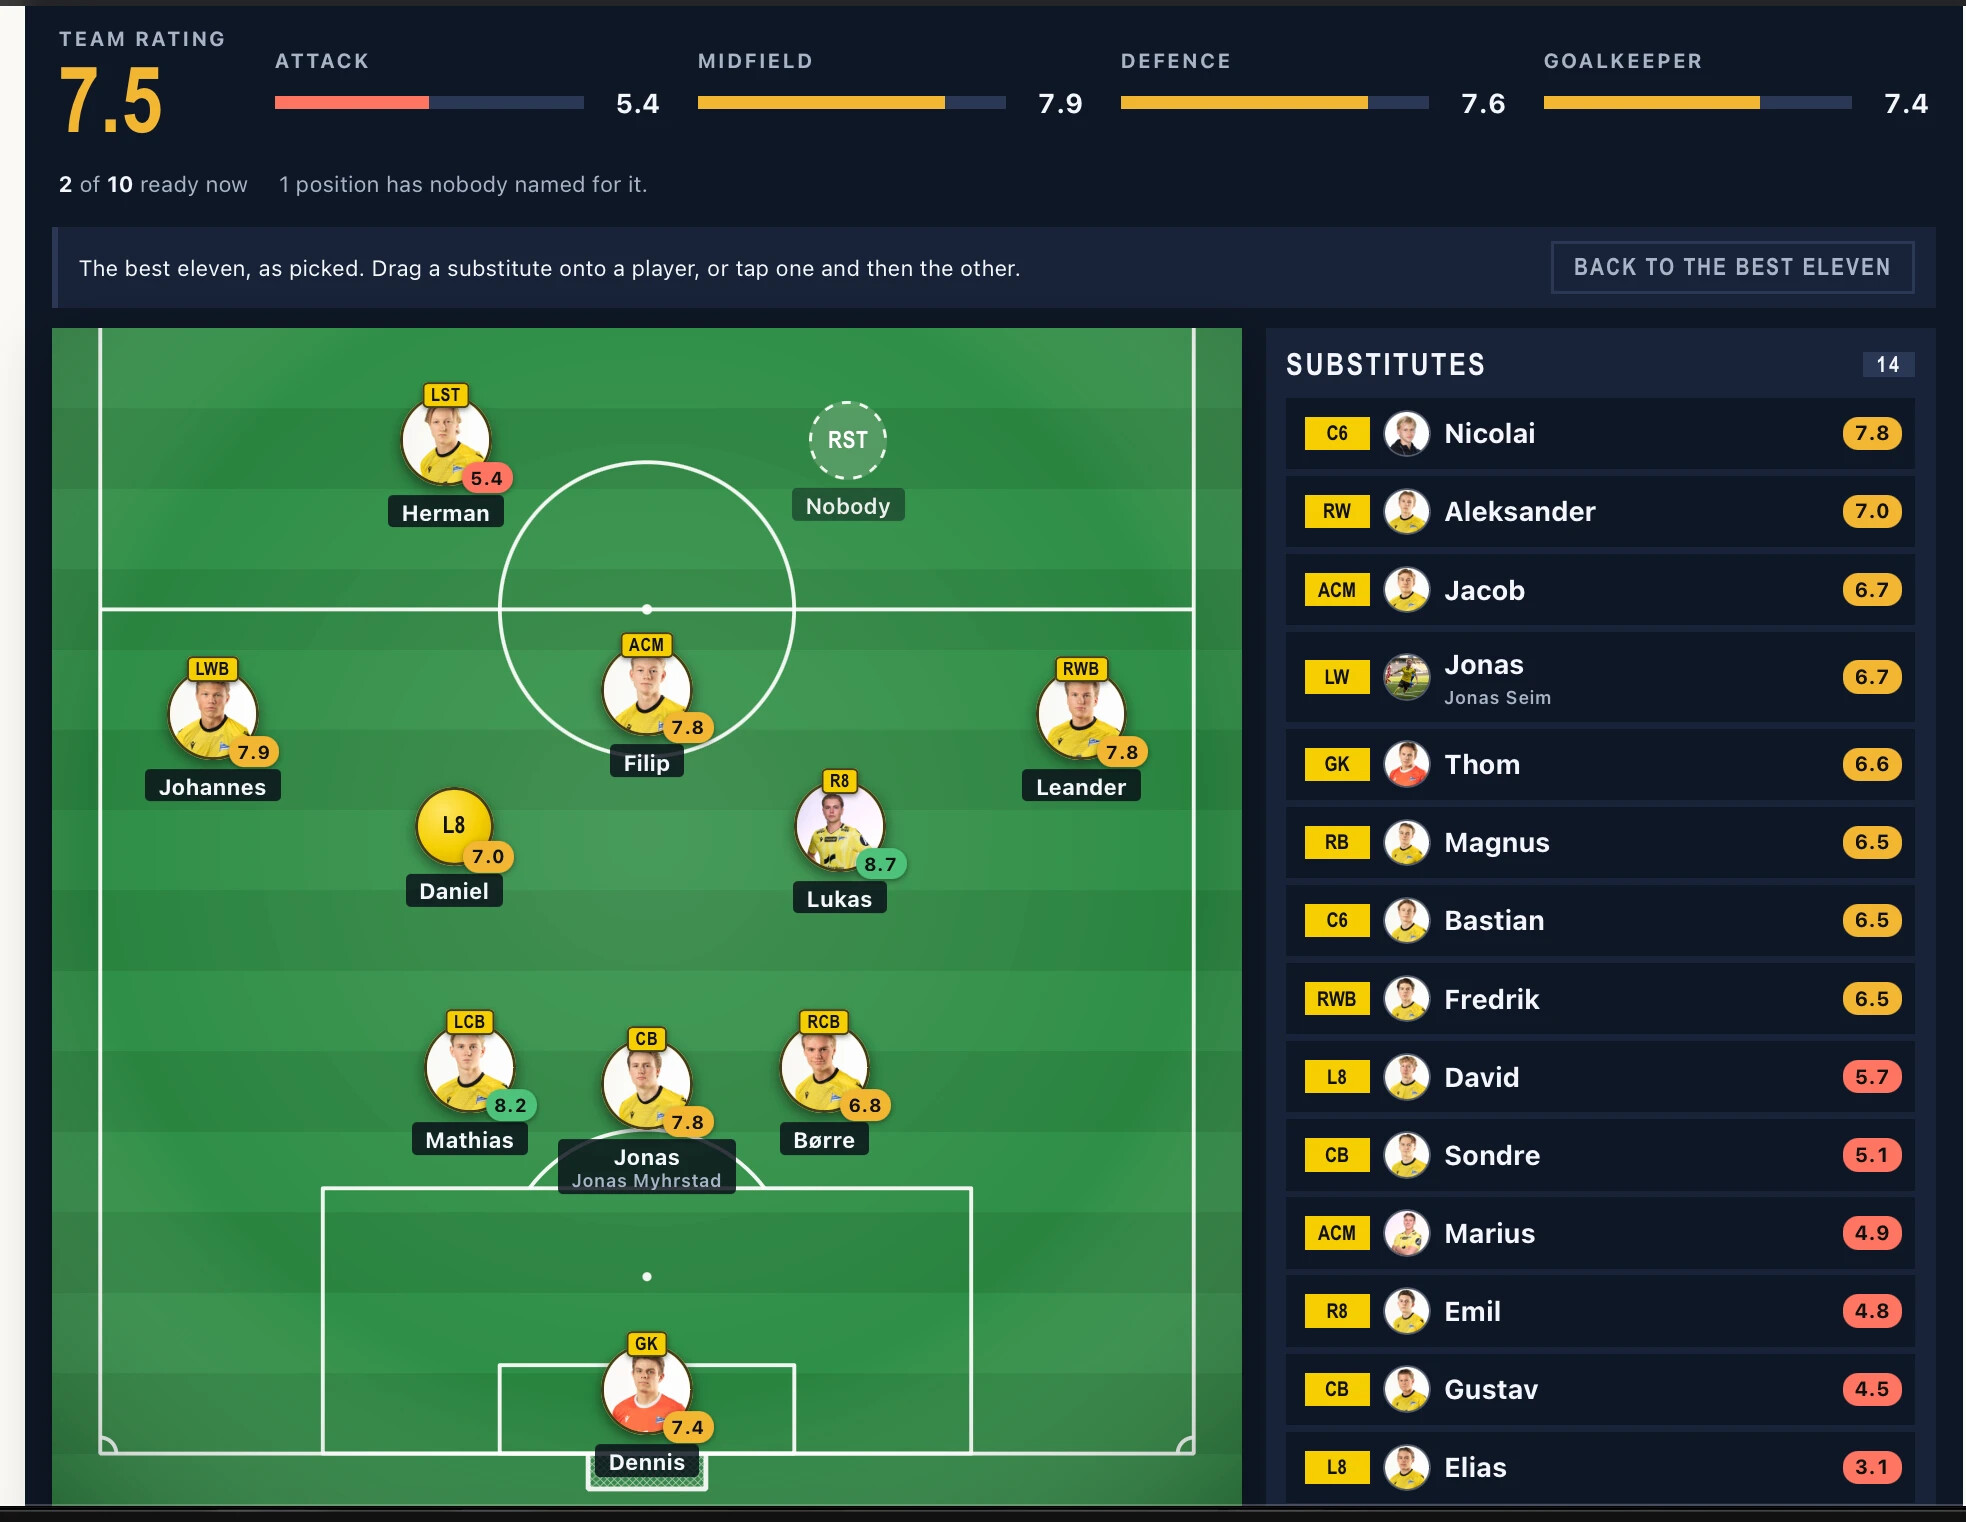
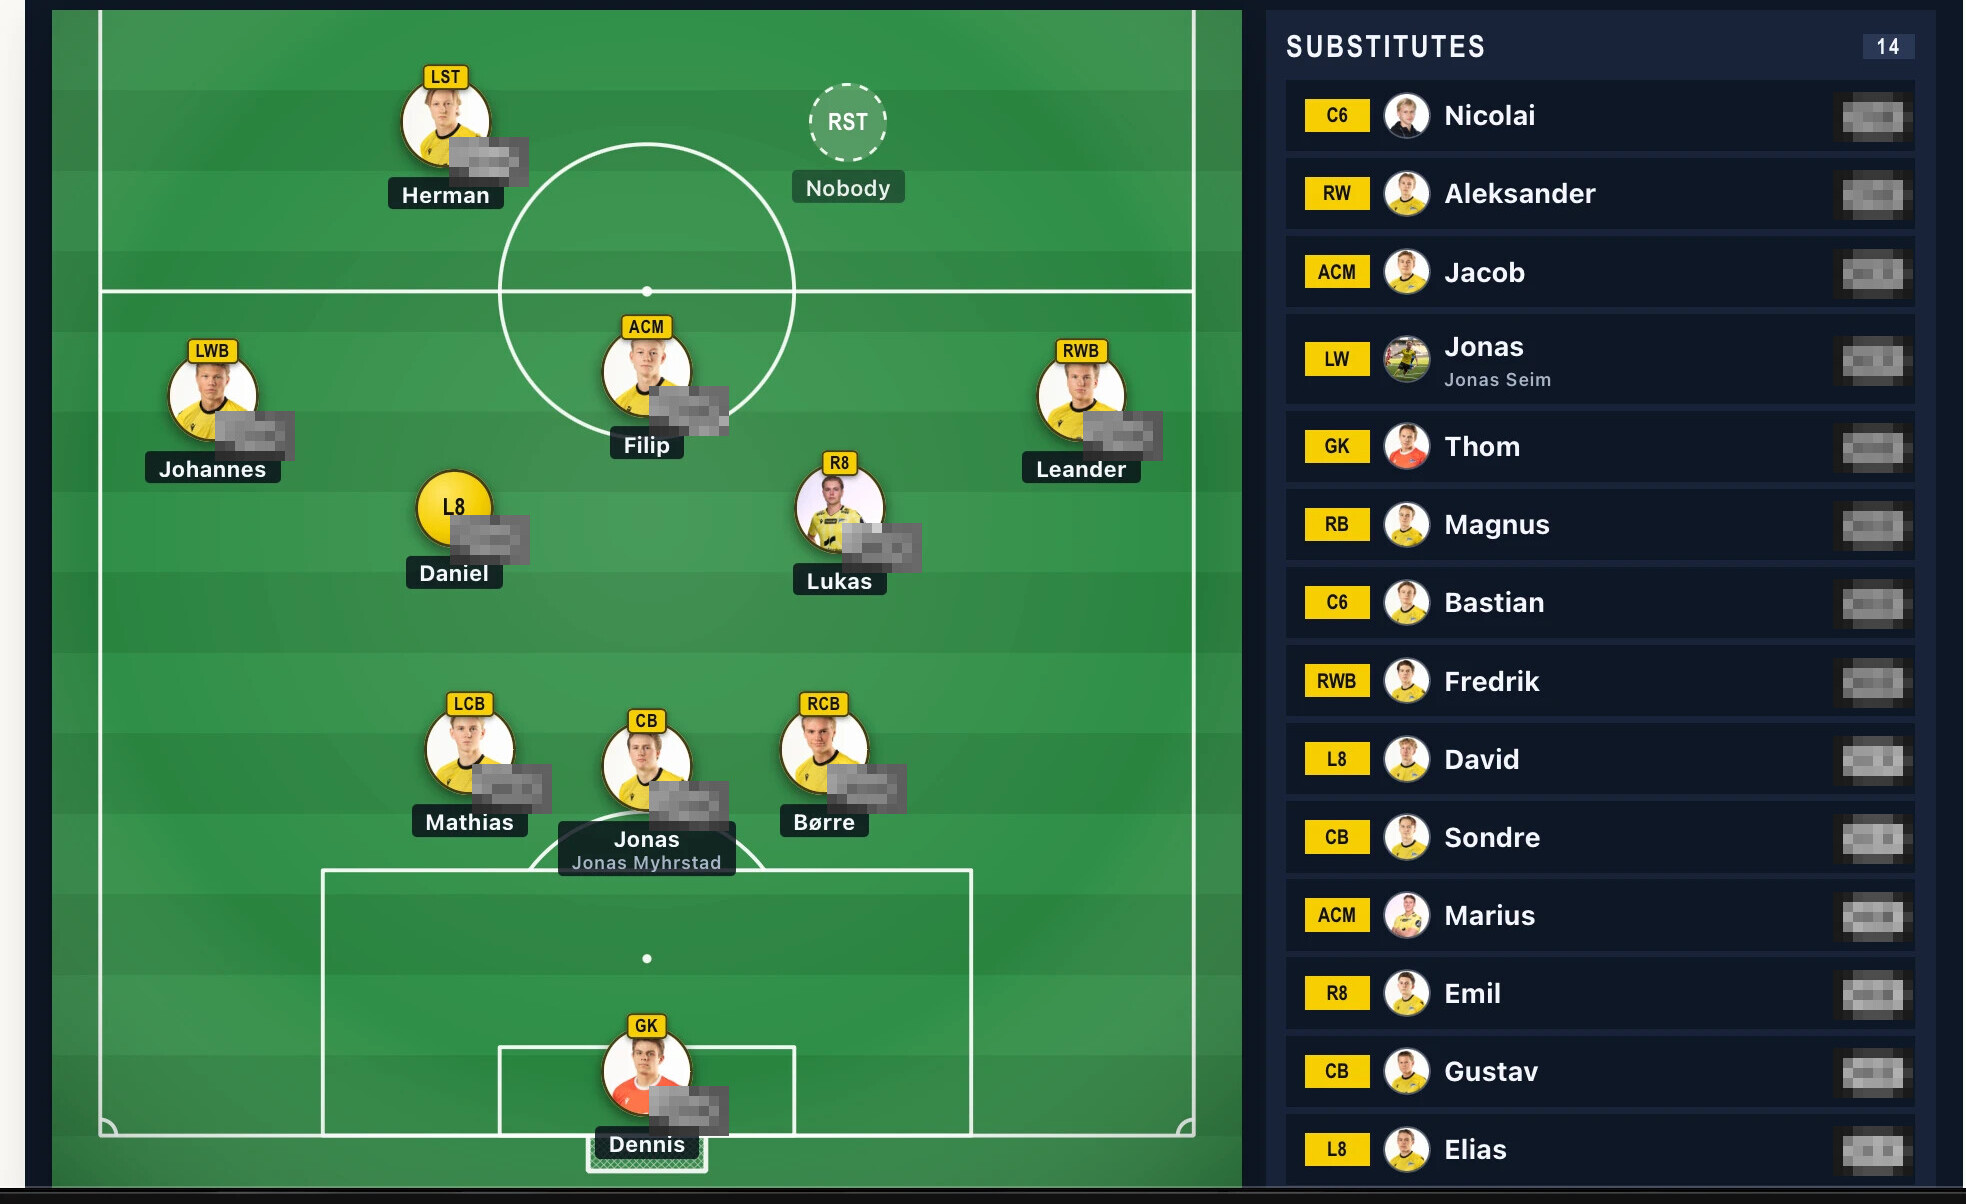
Sladd spillervurderingene i skjermbildet på Status 2
Vurderingen til hver spiller er pikselert og gjort grå, slik at verken
tallet eller fargen viser nivået. Lagvurderingen øverst er beskåret bort,
fordi angrep og keeper der tilsvarer vurderingen til enkeltspillere.

Claude-Session: https://claude.ai/code/session_01X4Wkud3dbesq8Bqi6KWXtg

diff --git a/lib/status-2.ts b/lib/status-2.ts
@@ -22,9 +22,9 @@ export const status2Sections: StatusSection[] = [
     ],
     image: {
       src: "/images/status-2/beste-ellever.jpg",
-      alt: "Beste ellever i StartCompass: en bane med formasjonen 3-5-2, lagvurdering per lagdel og en liste med innbyttere.",
+      alt: "Beste ellever i StartCompass: en bane med formasjonen 3-5-2 og en liste med innbyttere. Vurderingene er sladdet.",
       width: 1966,
-      height: 1522,
+      height: 1204,
     },
   },
   {
